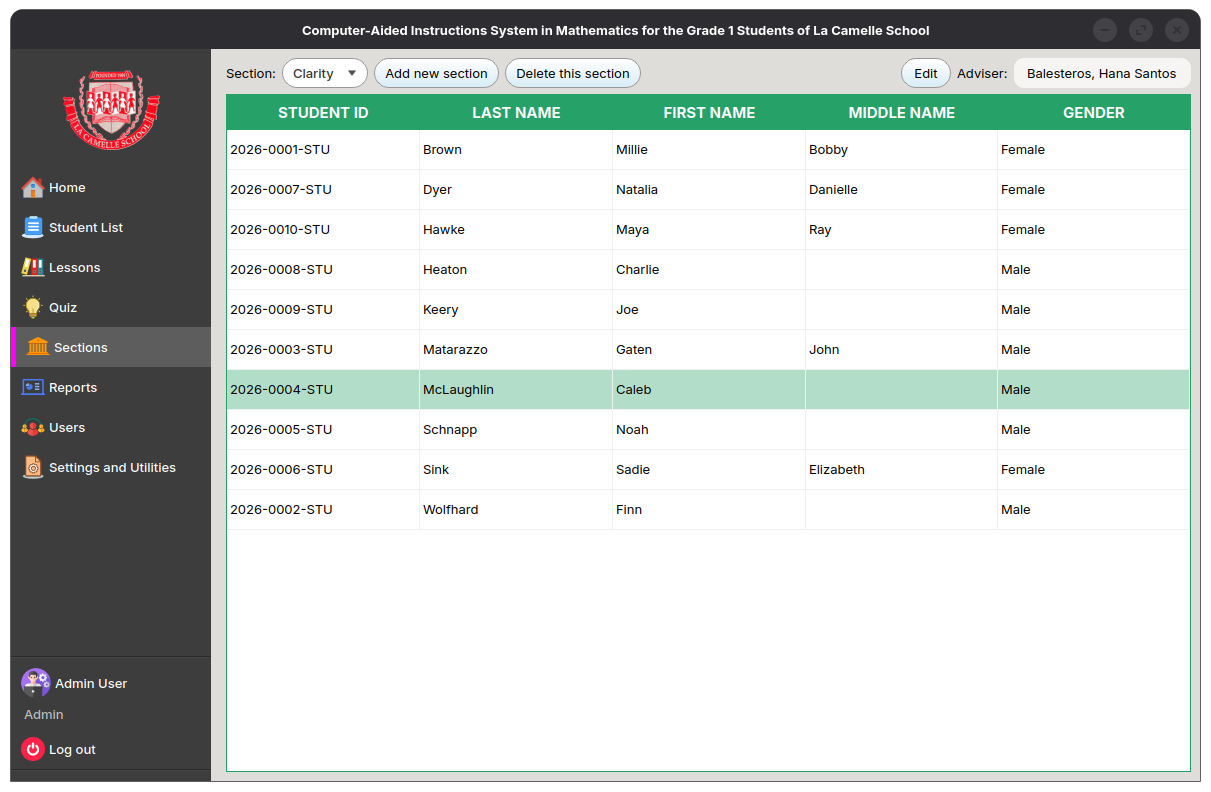
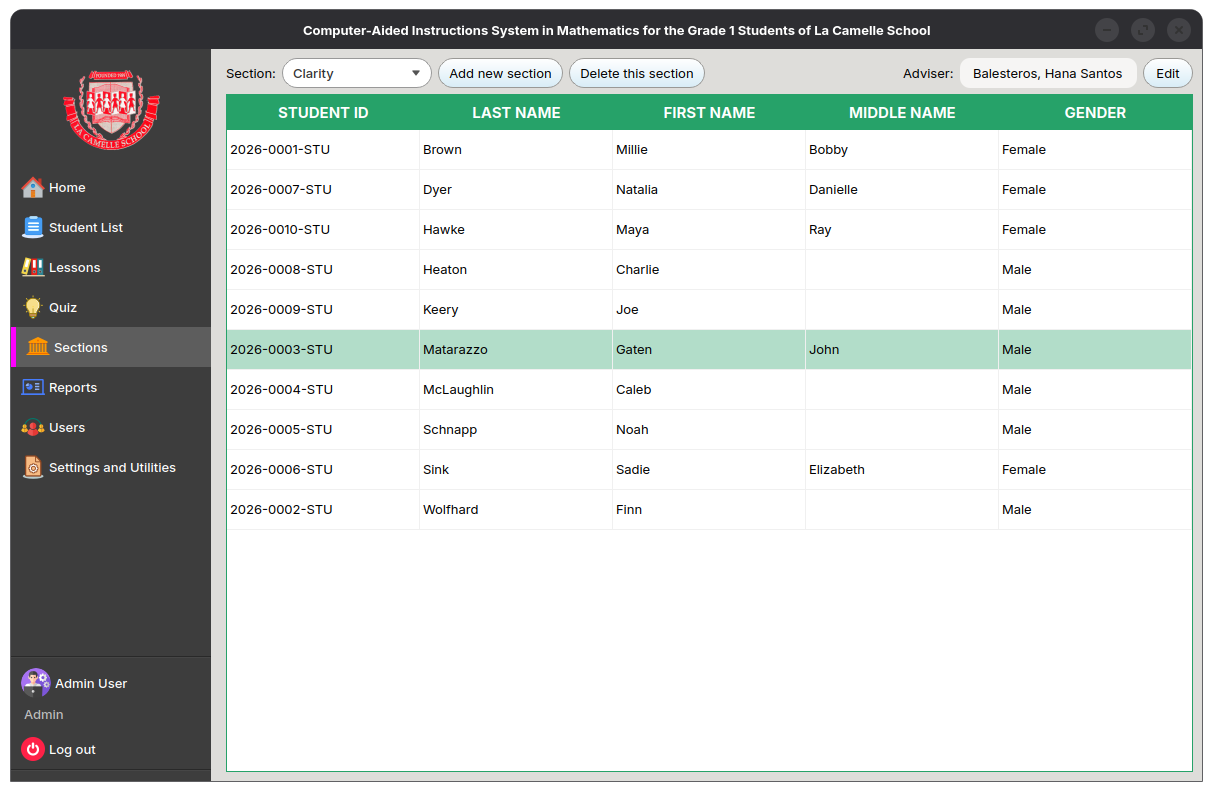
20260930.3

diff --git a/CAI_PyQt/CAI_Admin/App/FormHome.py b/CAI_PyQt/CAI_Admin/App/FormHome.py
@@ -1281,7 +1281,7 @@ class Ui_Home(object):
         self.scrollArea_classlist.setAlignment(Qt.AlignHCenter|Qt.AlignTop)
         self.container = QWidget()
         self.container.setObjectName(u"container")
-        self.container.setGeometry(QRect(0, 0, 100, 30))
+        self.container.setGeometry(QRect(0, 0, 788, 627))
         self.gridLayout_stud_card = QGridLayout(self.container)
         self.gridLayout_stud_card.setObjectName(u"gridLayout_stud_card")
         self.scrollArea_classlist.setWidget(self.container)
@@ -2269,7 +2269,7 @@ class Ui_Home(object):
         self.scrollArea_tf.setWidgetResizable(True)
         self.scrollAreaWidgetContents_4 = QWidget()
         self.scrollAreaWidgetContents_4.setObjectName(u"scrollAreaWidgetContents_4")
-        self.scrollAreaWidgetContents_4.setGeometry(QRect(0, 0, 100, 30))
+        self.scrollAreaWidgetContents_4.setGeometry(QRect(0, 0, 318, 538))
         self.verticalLayout_13 = QVBoxLayout(self.scrollAreaWidgetContents_4)
         self.verticalLayout_13.setObjectName(u"verticalLayout_13")
         self.scrollArea_tf.setWidget(self.scrollAreaWidgetContents_4)
@@ -2295,7 +2295,7 @@ class Ui_Home(object):
         self.scrollArea_mc.setWidgetResizable(True)
         self.scrollAreaWidgetContents_3 = QWidget()
         self.scrollAreaWidgetContents_3.setObjectName(u"scrollAreaWidgetContents_3")
-        self.scrollAreaWidgetContents_3.setGeometry(QRect(0, 0, 100, 30))
+        self.scrollAreaWidgetContents_3.setGeometry(QRect(0, 0, 317, 538))
         self.verticalLayout_12 = QVBoxLayout(self.scrollAreaWidgetContents_3)
         self.verticalLayout_12.setObjectName(u"verticalLayout_12")
         self.scrollArea_mc.setWidget(self.scrollAreaWidgetContents_3)
@@ -2308,7 +2308,7 @@ class Ui_Home(object):
         self.scrollArea_id.setWidgetResizable(True)
         self.scrollAreaWidgetContents_2 = QWidget()
         self.scrollAreaWidgetContents_2.setObjectName(u"scrollAreaWidgetContents_2")
-        self.scrollAreaWidgetContents_2.setGeometry(QRect(0, 0, 100, 30))
+        self.scrollAreaWidgetContents_2.setGeometry(QRect(0, 0, 318, 538))
         self.verticalLayout_11 = QVBoxLayout(self.scrollAreaWidgetContents_2)
         self.verticalLayout_11.setObjectName(u"verticalLayout_11")
         self.scrollArea_id.setWidget(self.scrollAreaWidgetContents_2)
@@ -2476,7 +2476,7 @@ class Ui_Home(object):
 
         self.comboBox_Section = QComboBox(self.pageSections)
         self.comboBox_Section.setObjectName(u"comboBox_Section")
-        self.comboBox_Section.setMinimumSize(QSize(0, 30))
+        self.comboBox_Section.setMinimumSize(QSize(150, 30))
         self.comboBox_Section.setMaximumSize(QSize(16777215, 30))
         self.comboBox_Section.setStyleSheet(u"")
         self.comboBox_Section.setSizeAdjustPolicy(QComboBox.AdjustToContents)
@@ -2506,14 +2506,6 @@ class Ui_Home(object):
 
         self.horizontalLayout_8.addItem(self.horizontalSpacer_3)
 
-        self.btnSectionEdit = QPushButton(self.pageSections)
-        self.btnSectionEdit.setObjectName(u"btnSectionEdit")
-        self.btnSectionEdit.setMinimumSize(QSize(50, 30))
-        self.btnSectionEdit.setMaximumSize(QSize(16777215, 30))
-        self.btnSectionEdit.setCursor(QCursor(Qt.CursorShape.PointingHandCursor))
-
-        self.horizontalLayout_8.addWidget(self.btnSectionEdit)
-
         self.label_5 = QLabel(self.pageSections)
         self.label_5.setObjectName(u"label_5")
         self.label_5.setMinimumSize(QSize(0, 0))
@@ -2535,6 +2527,14 @@ class Ui_Home(object):
         self.label_Adviser.setWordWrap(False)
 
         self.horizontalLayout_8.addWidget(self.label_Adviser)
+
+        self.btnSectionEdit = QPushButton(self.pageSections)
+        self.btnSectionEdit.setObjectName(u"btnSectionEdit")
+        self.btnSectionEdit.setMinimumSize(QSize(50, 30))
+        self.btnSectionEdit.setMaximumSize(QSize(16777215, 30))
+        self.btnSectionEdit.setCursor(QCursor(Qt.CursorShape.PointingHandCursor))
+
+        self.horizontalLayout_8.addWidget(self.btnSectionEdit)
 
 
         self.verticalLayout_2.addLayout(self.horizontalLayout_8)
@@ -3814,7 +3814,7 @@ class Ui_Home(object):
         self.scrollArea_settings.setWidgetResizable(True)
         self.scrollAreaWidgetContents_5 = QWidget()
         self.scrollAreaWidgetContents_5.setObjectName(u"scrollAreaWidgetContents_5")
-        self.scrollAreaWidgetContents_5.setGeometry(QRect(0, 0, 961, 665))
+        self.scrollAreaWidgetContents_5.setGeometry(QRect(0, 0, 463, 579))
         self.verticalLayout_10 = QVBoxLayout(self.scrollAreaWidgetContents_5)
         self.verticalLayout_10.setObjectName(u"verticalLayout_10")
         self.verticalLayout_10.setContentsMargins(0, 0, 0, 0)
@@ -4638,10 +4638,10 @@ class Ui_Home(object):
         self.btnSectionAdd.setProperty(u"class", QCoreApplication.translate("Home", u"button-normal", None))
         self.btnSectionDelete.setText(QCoreApplication.translate("Home", u"Delete this section", None))
         self.btnSectionDelete.setProperty(u"class", QCoreApplication.translate("Home", u"button-normal", None))
-        self.btnSectionEdit.setText(QCoreApplication.translate("Home", u"Edit", None))
-        self.btnSectionEdit.setProperty(u"class", QCoreApplication.translate("Home", u"button-normal", None))
         self.label_5.setText(QCoreApplication.translate("Home", u"Adviser:", None))
         self.label_Adviser.setText("")
+        self.btnSectionEdit.setText(QCoreApplication.translate("Home", u"Edit", None))
+        self.btnSectionEdit.setProperty(u"class", QCoreApplication.translate("Home", u"button-normal", None))
         self.label_48.setText(QCoreApplication.translate("Home", u"School Year:", None))
         self.cmb_school_year_2.setPlaceholderText("")
         self.cmb_school_year_2.setProperty(u"class", QCoreApplication.translate("Home", u"combobox-main", None))

diff --git a/CAI_PyQt/CAI_Student/App/CardStudent.py b/CAI_PyQt/CAI_Student/App/CardStudent.py
@@ -74,7 +74,7 @@ class Ui_CardStudent(object):
         self.label_student_name.setLayoutDirection(Qt.LeftToRight)
         self.label_student_name.setStyleSheet(u"#label_student_name {\n"
 "	font: 20pt \"Biscuit Glitch\";\n"
-"	color: rgb(99, 69, 44)\n"
+"	color: rgb(99, 69, 44);\n"
 "}")
         self.label_student_name.setAlignment(Qt.AlignLeading|Qt.AlignLeft|Qt.AlignVCenter)
 
